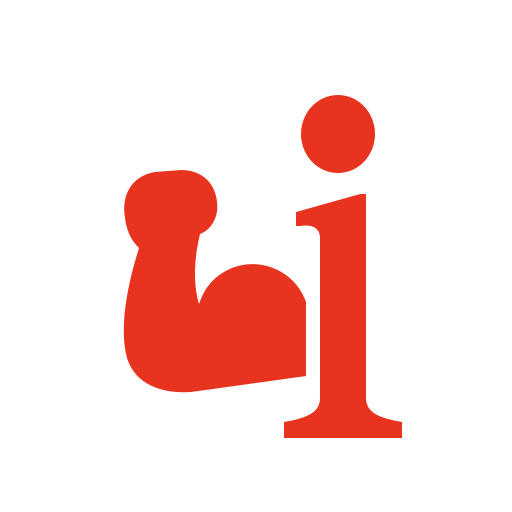
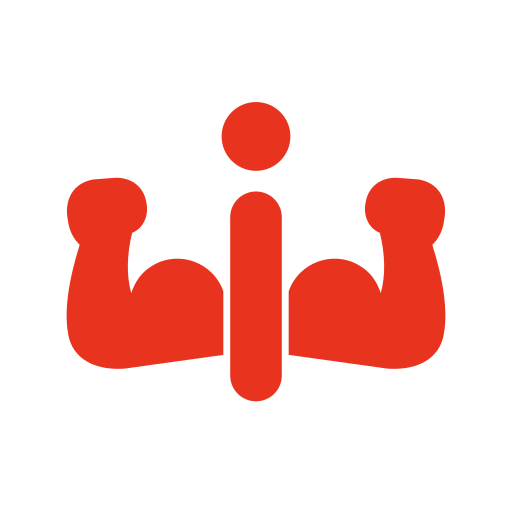
Iconiță: „i” minimalist cu ambele brațe încordate, centrat
Claude-Session: https://claude.ai/code/session_01H2QctxREUHtWgdsC6PVFff

Changed region(s): [[0.125, 0.3125, 0.875, 0.875], [0.4062, 0.1875, 0.75, 0.3438]]

diff --git a/apps/web/index.html b/apps/web/index.html
@@ -11,8 +11,8 @@
     <link rel="preconnect" href="https://fonts.gstatic.com" crossorigin />
     <link rel="stylesheet" href="https://fonts.googleapis.com/css2?family=Instrument+Serif:ital@0;1&family=Manrope:wght@400;500;600;700;800&display=swap" />
     <meta name="apple-mobile-web-app-title" content="AIRON" />
-    <link rel="apple-touch-icon" href="./apple-touch-icon.png?v=4" />
-    <link rel="icon" href="./icon-192.png?v=4" />
+    <link rel="apple-touch-icon" href="./apple-touch-icon.png?v=5" />
+    <link rel="icon" href="./icon-192.png?v=5" />
     <title>AIRON</title>
   </head>
   <body>

diff --git a/apps/web/public/sw.js b/apps/web/public/sw.js
@@ -1,5 +1,5 @@
 // Pornește și fără semnal cu ultima versiune salvată; când e net, ia mereu versiunea nouă.
-const CACHE = 'airon-v4';
+const CACHE = 'airon-v5';
 const SHELL = ['./', './index.html', './app.js', './app.css', './manifest.webmanifest', './icon-192.png', './icon-512.png', './apple-touch-icon.png'];
 self.addEventListener('install', (e) => {
   self.skipWaiting();
